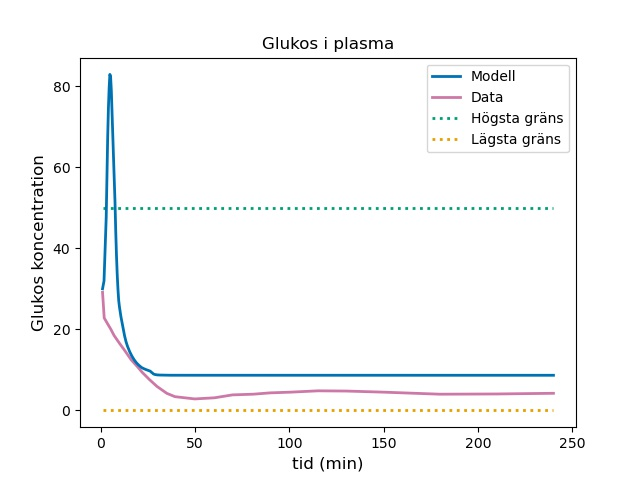
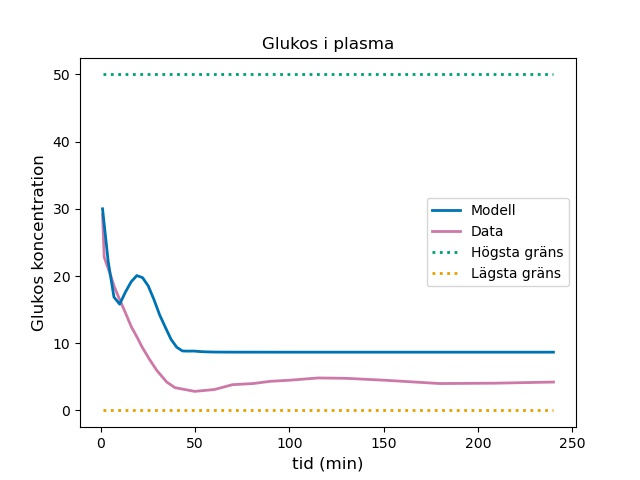
working model

diff --git a/optimering/week16_open_loop_optimering.py b/optimering/week16_open_loop_optimering.py
@@ -212,17 +212,14 @@ bounds = Bounds(bound_low, bound_upp)
 
 
 for n in range(samples):
-    k1 = start[0,n] * para_int[2]
+    k1 = start[0,n] * para_int[1]
     k2 = start[1,n] * para_int[1]
     k3 = start[2,n] * para_int[1]
-    k4 = start[3,n] * para_int[2]
+    k4 = start[3,n] * para_int[1]
     k5 = start[4,n] * para_int[1]
     k6 = start[5,n] * para_int[1]
-    k7 = start[6,n] * para_int[3]
+    k7 = start[6,n] * para_int[1]
     k8 = start[7,n] * para_int[1]
-
-
-
     
     res = minimize(cost_function, [k1, k2, k3, k4, k5, k6, k7, k8], method='Powell', args = (cG_vec, cI_vec), bounds=bounds) #lägg in constraints här 
 
@@ -242,7 +239,7 @@ time_span_I = [tI_vec[0], tI_vec[-1]]
 #inj = 2742
 
 # Solve ODE-system qualitative
-first_sol_qual = integrate.solve_ivp(open_loop, [0,20], x0, method="LSODA", args=(minimum[1], ))
+sol_qual = integrate.solve_ivp(open_loop, time_span_G, x0, method="Radau", args=(minimum[1], ))
 
 
 G_model = sol_qual.y[0]
@@ -347,7 +344,7 @@ yH2_coordinates = [200,200]
 
  # Constrains glucagon plasma (E)
 yE1_coordinates = [0,0]    
-yE2_coordinates = [200,200]  
+yE2_coordinates = [75, 75]  
 
  # Constrains Fettreserver (F)
 yF1_coordinates = [0,0]    
